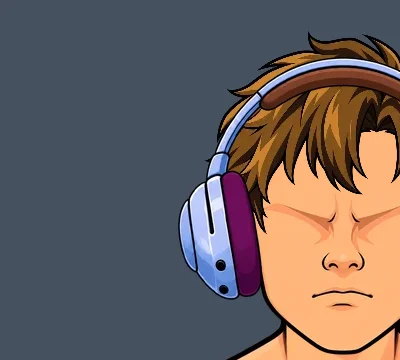
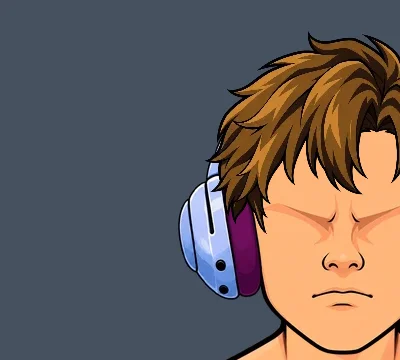
Наушники под волосами
Claude-Session: https://claude.ai/code/session_01E3jaUxUo8xTQNwyakAWMq3

Changed region(s): [[0.51, 0.1528, 1.0, 0.6111]]

diff --git a/src/client/art/rig.tsx b/src/client/art/rig.tsx
@@ -234,9 +234,11 @@ function wornIn(worn: Worn, slot: string): WearId | null {
 }
 
 /** a worn piece of clothing, if the item in that slot has art (the FACE slot is drawn on the head, over the eyes) */
-function Wear({ slot }: { slot: string }) {
+/** `hat`: a head thing — "under" the hair (headphones) or "over" it (hats that cut the hair, HAIR_CUT_HATS) */
+function Wear({ slot, hat }: { slot: string; hat?: "under" | "over" }) {
   const id = wornIn(useContext(WornCtx), slot);
   if (!id) return null;
+  if (hat && (hat === "over") !== HAIR_CUT_HATS.includes(id)) return null;
   const f = WEARS[id];
   return <image href={`/assets/hero/wear/${id}.webp?v=${ART_VER.wear}`} x={f.x} y={f.y} width={f.w} height={f.h} preserveAspectRatio="none" />;
 }
@@ -395,8 +397,9 @@ function RigBody({ seat, look, worn, seatOnly, edit }: { seat?: boolean | number
           <Bone p="head" className="rig-head">
             <Face />
             <Wear slot="FACE" />
+            <Wear slot="HEAD" hat="under" />
             <Hair />
-            <Wear slot="HEAD" />
+            <Wear slot="HEAD" hat="over" />
           </Bone>
         </Ol>
       </g>

diff --git a/src/content/updates.ts b/src/content/updates.ts
@@ -21,7 +21,7 @@ export const UPDATES: UpdateNote[] = [
     date: "31 октября",
     title: "Наушники Лудомана",
     items: [
-      { img: "/assets/updates/2026-10-31-headphones.webp", text: "Новая вещь с Востока — наушники. Падают за победу в «Блатном» вместе с кофтой и штанами Лудомана, надеваются поверх причёски." },
+      { img: "/assets/updates/2026-10-31-headphones.webp", text: "Новая вещь с Востока — наушники. Падают за победу в «Блатном» вместе с кофтой и штанами Лудомана, сидят под волосами." },
     ],
   },
   {
